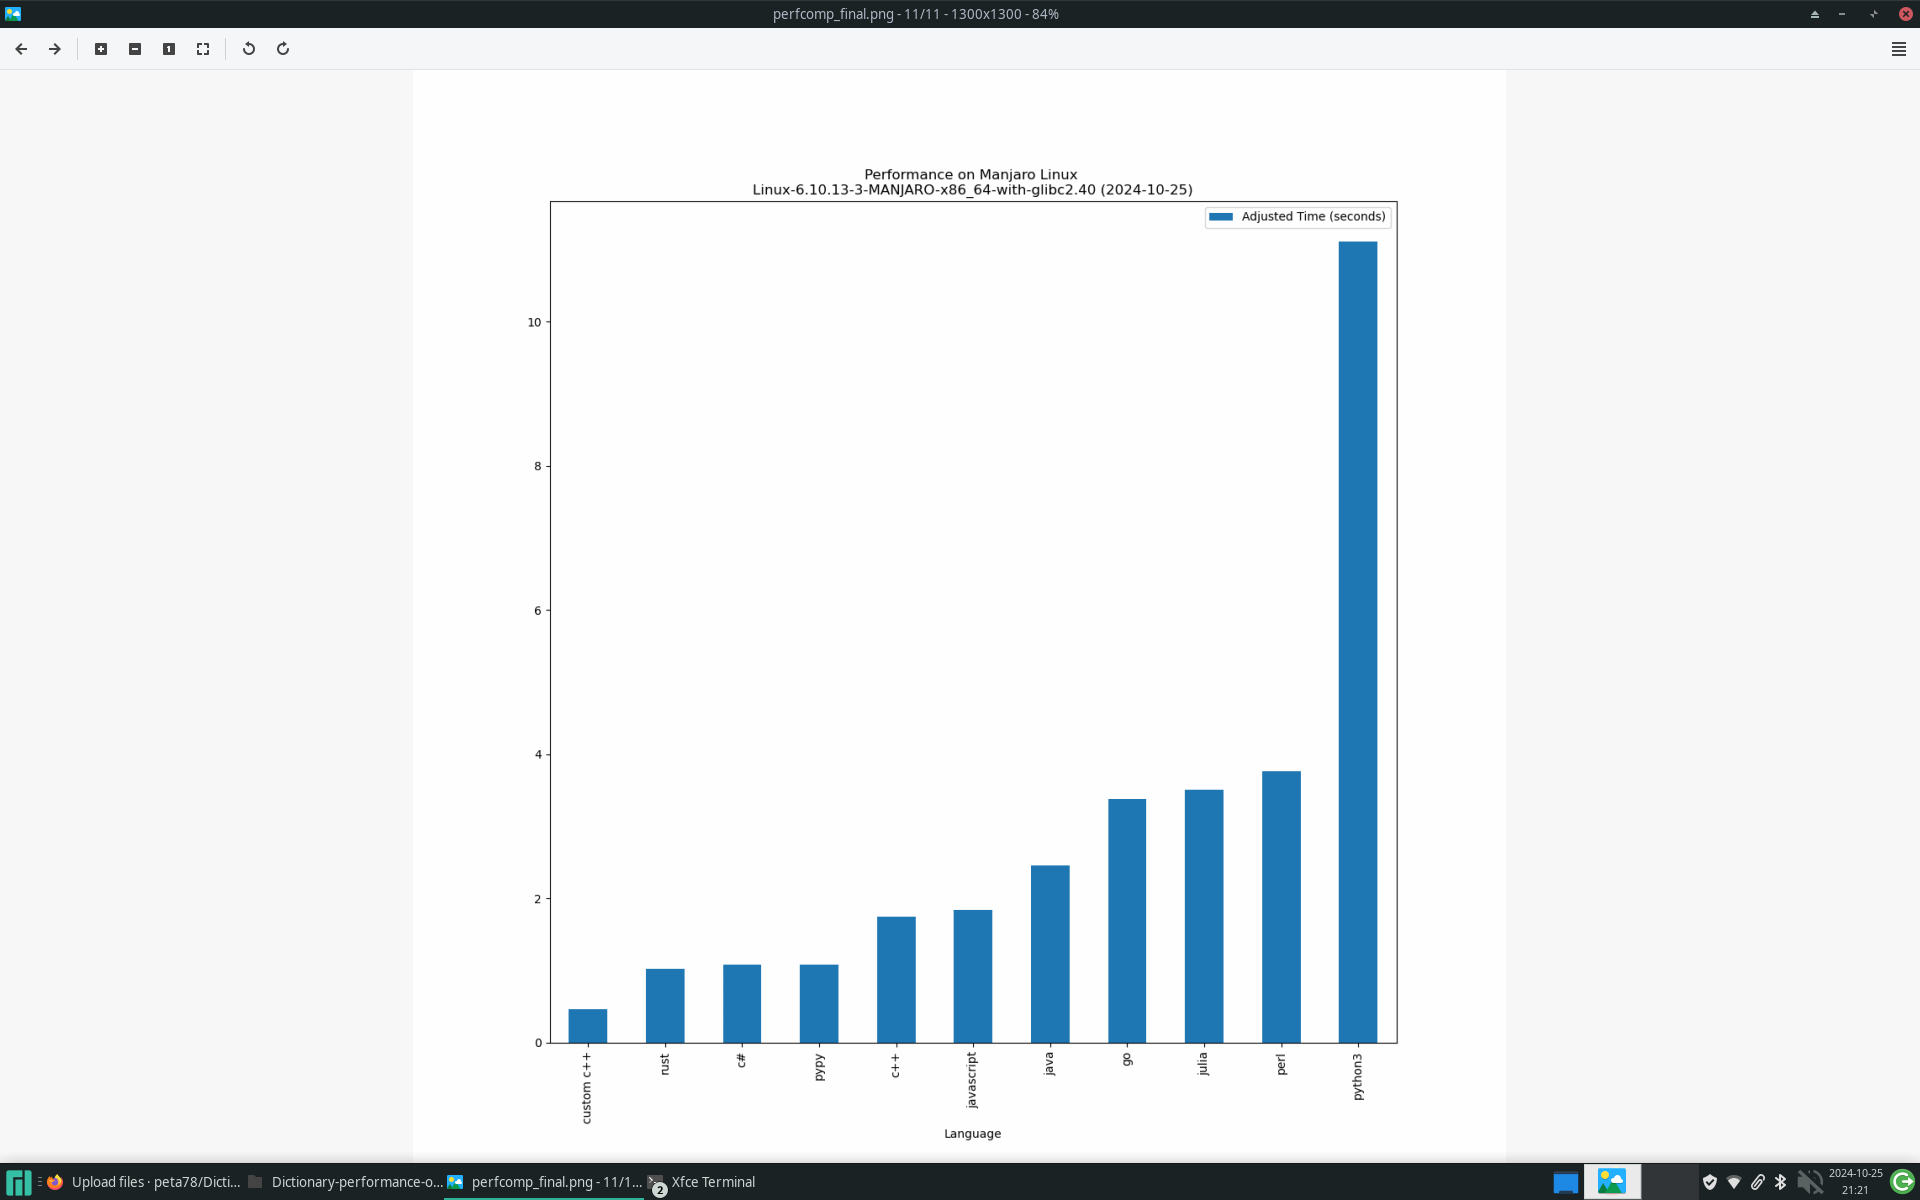
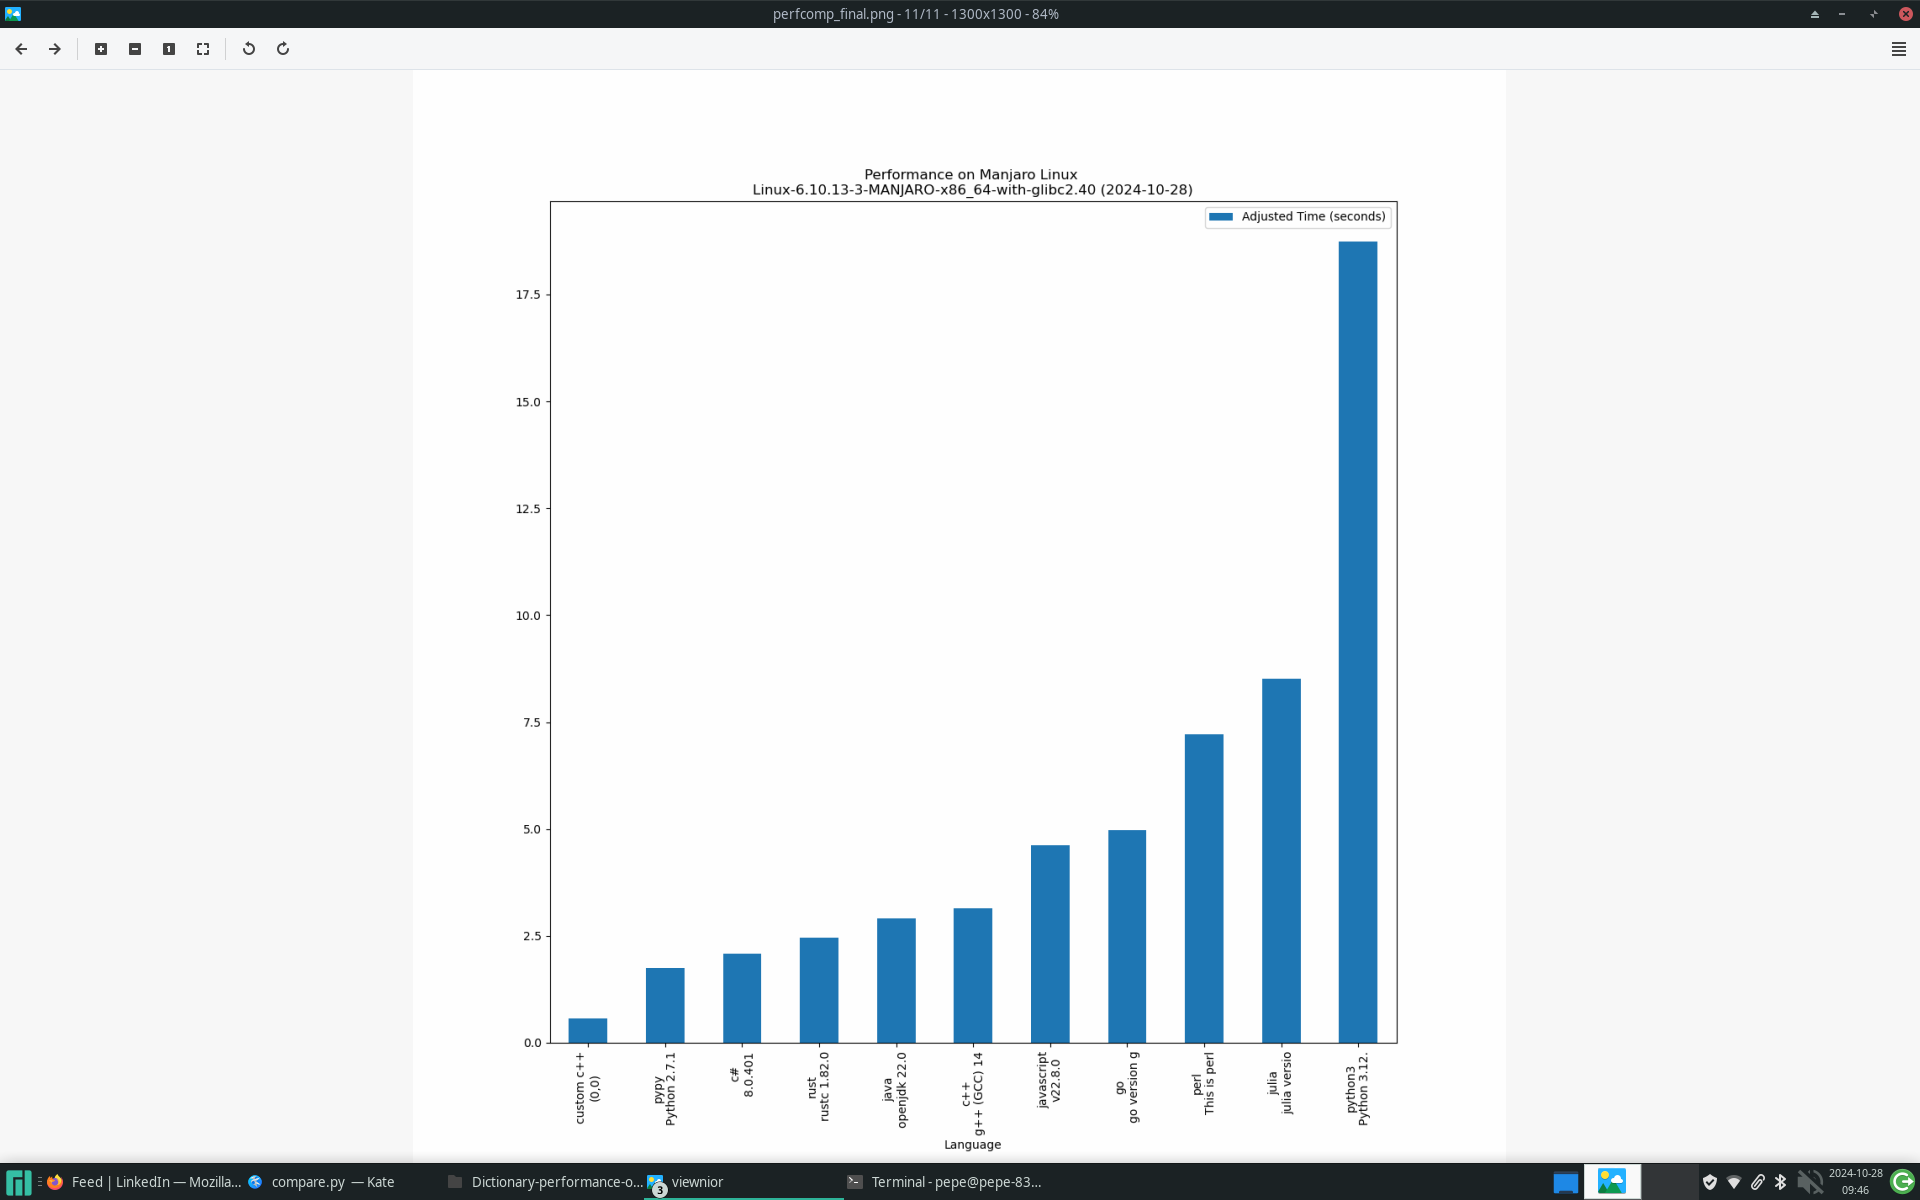
mi

diff --git a/compare.py b/compare.py
@@ -182,7 +182,10 @@ final = []
 ff = []
 for r in results:
     final.append([r[0], r[1][0], r[1][1], r[1][2], r[1][3]])
-    ff.append([r[0], r[1][0]])
+
+    print('***', r[0], r[1][0])
+
+    ff.append([r[0] +'\n' + getLangVer(r[0])[:12], r[1][0]])
 
 final = sorted(final, key=lambda s: s[1])
 
